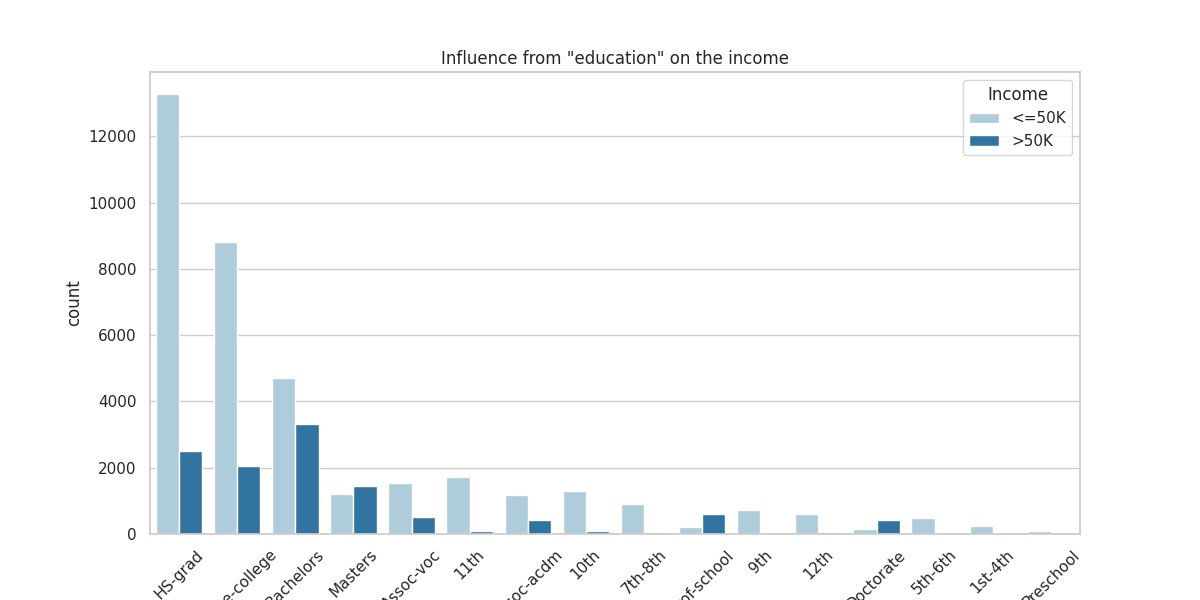
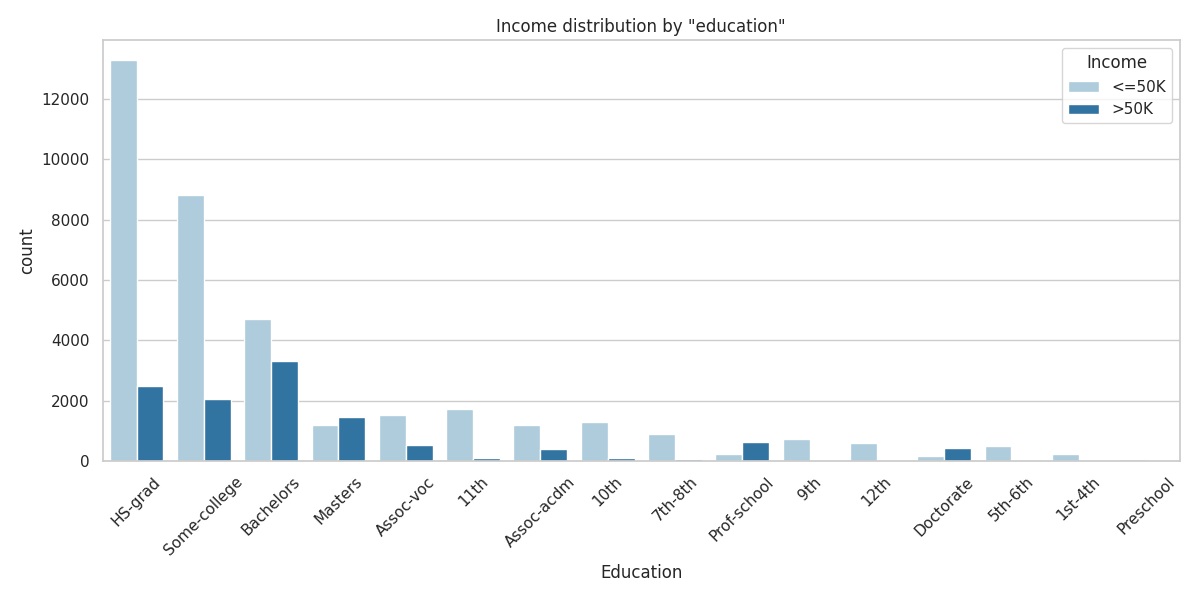
update exploration images

diff --git a/project/baseline/exploration.py b/project/baseline/exploration.py
@@ -29,25 +29,30 @@ sns.countplot(x='income', data=df, hue='income', palette='viridis', legend=False
 plt.title('Distribution of the target variable (income)')
 plt.xlabel('Income bracket')
 plt.ylabel('Number')
+plt.tight_layout()
 plt.show()
 
 plt.figure(figsize=(10, 6))
 sns.histplot(data=df, x='age', hue='income', kde=True, bins=30, palette='coolwarm')
 plt.title('Age distribution by income')
+plt.tight_layout()
 plt.show()
 
 plt.figure(figsize=(8, 6))
 sns.boxplot(x='income', y='hours-per-week', data=df, hue='income', palette='Set2', legend=False)
 plt.title('Working hours per week vs. income')
+plt.tight_layout()
 plt.show()
 
 def plot_categorical_relation(column, df_data, rotation=45):
     plt.figure(figsize=(12, 6))
     order = df_data[column].value_counts().index
     sns.countplot(x=column, hue='income', data=df_data, order=order, palette='Paired')
-    plt.title(f'Influence from "{column}" on the income')
+    plt.title(f'Income distribution by "{column}"')
     plt.xticks(rotation=rotation)
     plt.legend(title='Income', loc='upper right')
+    plt.xlabel(column.replace('-', ' ').capitalize())
+    plt.tight_layout()
     plt.show()
 
 plot_categorical_relation('education', df)
@@ -63,6 +68,7 @@ corr = numeric_df.corr()
 plt.figure(figsize=(10, 8))
 sns.heatmap(corr, annot=True, cmap='coolwarm', fmt=".2f", linewidths=.5)
 plt.title('Correlation matrix of the numerical features')
+plt.tight_layout()
 plt.show()
 
 print("Key insights for your model:")
